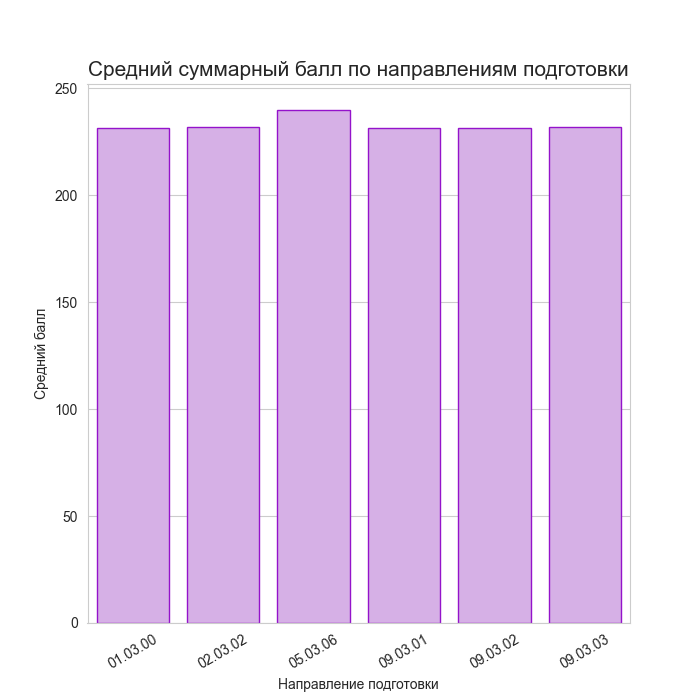
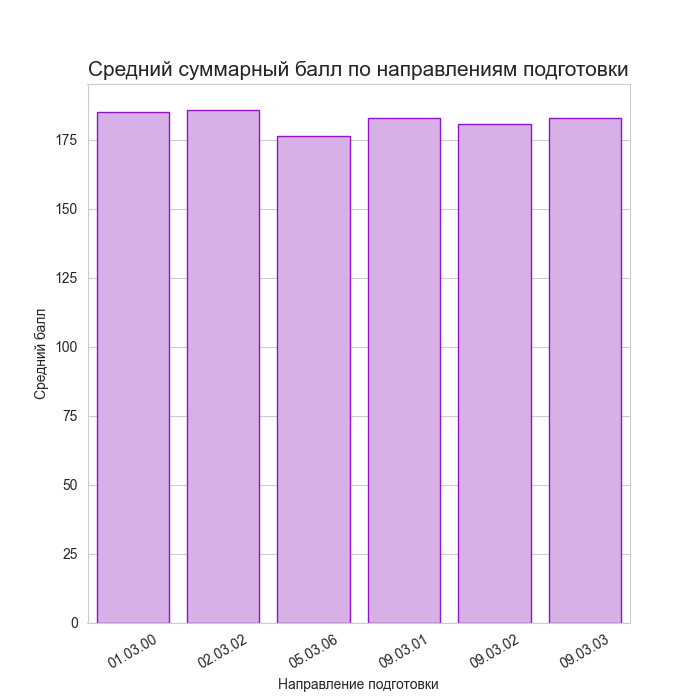
fix structure

diff --git a/static/script.js b/static/script.js
@@ -57,6 +57,11 @@ buttonCalcCount.addEventListener("click", async function () {
         body: JSON.stringify(params), 
     });
 
+    if (response.status !== 200) {
+        errorText.textContent = "Server error";
+        return;
+    }
+
     let plots_paths = await response.json();
 
     plotCountsSpread.setAttribute("src", plots_paths.counts_spread + "?" + new Date().getTime());
@@ -78,5 +83,8 @@ buttonCalcPeople.addEventListener("click", async function () {
         body: JSON.stringify(params), 
     });
 
-    console.log(await response.text());
+    if (response.status !== 200) {
+        errorText.textContent = "Server error";
+        return;
+    }
 });

diff --git a/process_data.py b/process_data.py
@@ -5,15 +5,20 @@ import os
 SCORE_SUM_COL = "Сумма баллов"
 PRIPROTY_COL = "Приоритет"
 
-OUT_PATH = "out"
+DIR_CODES_COL = "Направление подготовки"
+COUNTS_REQUIRED_COL = "Количество требуемых людей"
+COUNTS_COMMON_COL = "Общее количество людей"
+AVER_SCORE_COL = "Средний балл"
+COUNTS_COL = "Количество людей"
+COUNT_TYPE_COL = "Тип количества"
 
 
-def read_all():
+def load_data(load_dir):
     res = {}
 
     print("Loading data:")
 
-    for i in glob.glob("data/*.xlsx"):
+    for i in glob.glob(f"{load_dir}/*.xlsx"):
         dir_code = ".".join(os.path.basename(i).split(".")[:-1])
         print(f"Loading {dir_code}.xlsx")
 
@@ -29,32 +34,69 @@ def calc_ranges(tables_all):
     b_max = max([i[SCORE_SUM_COL].max() for i in tables_all.values()])
     p_min = min([i[PRIPROTY_COL].min() for i in tables_all.values()])
     p_max = max([i[PRIPROTY_COL].max() for i in tables_all.values()])
-    return b_min, b_max, p_min, p_max
+
+    return {
+        "b_min": b_min, 
+        "b_max": b_max, 
+        "p_min": p_min, 
+        "p_max": p_max
+    }
 
 
-def process_table(table, b1, b2, p1, p2):
-    part_need = table[(table[SCORE_SUM_COL] >= b1) & (table[SCORE_SUM_COL] <= b2) & (table[PRIPROTY_COL] >= p1) & (table[PRIPROTY_COL] <= p2)]
+def validate_filter_params(filter_params, ranges):
+    if filter_params["b1"] < ranges["b_min"] or filter_params["b1"] > ranges["b_max"]:
+        raise ValueError("b1 is out of range") 
+    
+    if filter_params["b2"] < ranges["b_min"] or filter_params["b2"] > ranges["b_max"]:
+        raise ValueError("b2 is out of range") 
+    
+    if filter_params["p1"] < ranges["p_min"] or filter_params["p1"] > ranges["p_max"]:
+        raise ValueError("p1 is out of range") 
+    
+    if filter_params["p2"] < ranges["p_min"] or filter_params["p2"] > ranges["p_max"]:
+        raise ValueError("p2 is out of range") 
+    
+    if filter_params["b1"] > filter_params["b2"]:
+        raise ValueError("b1 must be less than b2 or equal it")
+    
+    if filter_params["p1"] > filter_params["p2"]:
+        raise ValueError("p1 must be less than p2 or equal it")
+
+
+def filter_table(table, filter_params):
+    b1 = filter_params["b1"]
+    b2 = filter_params["b2"]
+    p1 = filter_params["p1"]
+    p2 = filter_params["p2"]
+    
+    part_need = table[(table[SCORE_SUM_COL] >= b1) & (table[SCORE_SUM_COL] <= b2) & \
+                      (table[PRIPROTY_COL] >= p1) & (table[PRIPROTY_COL] <= p2)]
+    
     return part_need
 
 
-def form_table_counts(tables_all, b1, b2, p1, p2):
-    processed_tables = [process_table(tables_all[i], b1, b2, p1, p2) for i in tables_all.keys()]
-    counts = [i[SCORE_SUM_COL].count() for i in processed_tables]
+def create_stat_table(tables_all, filter_params, ranges):
+    validate_filter_params(filter_params, ranges)
+
+    processed_tables = [filter_table(tables_all[i], filter_params) for i in tables_all.keys()]
+    counts_required = [i[SCORE_SUM_COL].count() for i in processed_tables]
+    counts_common = [tables_all[i][SCORE_SUM_COL].count() for i in tables_all.keys()]
     score_average = []
 
     for i in range(len(processed_tables)):
-        score_average.append(processed_tables[i][SCORE_SUM_COL].sum() / counts[i])
+        score_average.append(processed_tables[i][SCORE_SUM_COL].sum() / counts_required[i])
 
     frame_counts = pd.DataFrame({
-        "Направление подготовки": list(tables_all.keys()),
-        "Количество людей": counts,
-        "Средний балл": score_average,
+        DIR_CODES_COL: list(tables_all.keys()),
+        COUNTS_REQUIRED_COL: counts_required,
+        COUNTS_COMMON_COL: counts_common,
+        AVER_SCORE_COL: score_average,
     })
 
     return frame_counts
 
 
-def create_counts_to_show(tables_all, table_counts):
+def reshape_counts_to_show(tables_all, table_counts):
     dir_codes = []
     counts = []
     count_type = []
@@ -62,25 +104,32 @@ def create_counts_to_show(tables_all, table_counts):
     row_num = 0
 
     for i in tables_all.keys():
-        dir_codes.append(i)
-        dir_codes.append(i)
-        counts.append(table_counts["Количество людей"][row_num])
-        counts.append(tables_all[i][SCORE_SUM_COL].count())
-        count_type.append("По параметрам")
-        count_type.append("Общее")
+        dir_codes += [i, i]
+        count_type += ["Требуемых", "Общее"]
+        counts.append(table_counts[COUNTS_REQUIRED_COL][row_num])
+        counts.append(table_counts[COUNTS_COMMON_COL][row_num])
 
         row_num = row_num + 1
 
     return pd.DataFrame({
-        "Направление подготовки": dir_codes,
-        "Количество людей": counts,
-        "Тип количества": count_type
+        DIR_CODES_COL: dir_codes,
+        COUNTS_COL: counts,
+        COUNT_TYPE_COL: count_type
     })
 
 
-def form_tables_with_required_people(tables_all, b1, b2, p1, p2):
-    for dir_code, dir_df in tables_all.items():
-        save_path = f"{OUT_PATH}/{dir_code}_{b1}_{b2}_{p1}_{p2}.xlsx"
+def form_tables_with_required_people(tables_all, filter_params, ranges, save_dir):
+    validate_filter_params(filter_params, ranges)
 
-        df_filtered = process_table(dir_df, b1, b2, p1, p2)
+    b1 = filter_params["b1"]
+    b2 = filter_params["b2"]
+    p1 = filter_params["p1"]
+    p2 = filter_params["p2"]
+
+    name_suffix = f"{b1}_{b2}_{p1}_{p2}"
+
+    for dir_code, dir_df in tables_all.items():
+        save_path = f"{save_dir}/{dir_code}_{name_suffix}.xlsx"
+
+        df_filtered = filter_table(dir_df, filter_params)
         df_filtered.to_excel(save_path)

diff --git a/main.py b/main.py
@@ -1,84 +1,67 @@
-from flask import Flask, request, render_template
-from process_data import read_all, form_table_counts, form_tables_with_required_people, OUT_PATH, calc_ranges, create_counts_to_show
-import seaborn as sns
-import matplotlib
-import matplotlib.pyplot as plt
+from flask import Flask, request, render_template, abort
+from process_data import load_data, create_stat_table, form_tables_with_required_people, calc_ranges, reshape_counts_to_show, DIR_CODES_COL, COUNTS_REQUIRED_COL
+from plots import create_counts_plot, create_scores_plot
 from json import dumps
 from gevent import sleep
 from gevent.pywsgi import WSGIServer
 import os
 
+DATA_PATH = "data"
+OUT_PATH = "out"
 HOST = "127.0.0.1"
 PORT = 3000
-
-matplotlib.use('Agg')
 
 app = Flask(__name__, static_folder="static", template_folder="static")
 ui_server = WSGIServer((HOST, PORT), app, log=open(os.devnull, "w"))
 
-frames = read_all()
-b_min, b_max, p_min, p_max = calc_ranges(frames)
+source_data = load_data(DATA_PATH)
+ranges = calc_ranges(source_data)
 
 
 @app.route('/', methods=['GET'])
 def root():
-    return render_template("index.html", b_min=b_min, b_max=b_max, p_min=p_min, p_max=p_max)
+    return render_template(
+        "index.html", 
+        b_min=ranges["b_min"], 
+        b_max=ranges["b_max"], 
+        p_min=ranges["p_min"], 
+        p_max=ranges["p_max"]
+    )
 
 
 @app.route('/table_counts', methods=['POST'])
 def table_counts():
-    params = request.get_json()
-    frame_counts = form_table_counts(frames, params["b1"], params["b2"], params["p1"], params["p2"])
+    try:
+        params = request.get_json()
+        stat_table = create_stat_table(source_data, params, ranges)
 
-    frame_counts[["Направление подготовки", "Количество людей"]].to_excel(f"{OUT_PATH}/common.xlsx")
+        stat_table[[DIR_CODES_COL, COUNTS_REQUIRED_COL]].to_excel(f"{OUT_PATH}/common.xlsx")
+        
+        counts_save_path = "static/counts_spread.png"
+        counts_to_show = reshape_counts_to_show(source_data, stat_table)
+
+        create_counts_plot(counts_to_show, counts_save_path)
+
+        score_save_path = "static/average_score_spread.png"
+
+        create_scores_plot(stat_table, score_save_path)
+
+        return dumps({"counts_spread": counts_save_path, "average_score_spread": score_save_path})
     
-    counts_save_path = "static/counts_spread.png"
-    counts_to_show = create_counts_to_show(frames, frame_counts)
-
-    sns.set_style("whitegrid")
-
-    plot = sns.catplot(
-        data=counts_to_show,
-        x="Направление подготовки",
-        y="Количество людей",
-        hue="Тип количества",
-        kind="bar",
-        palette=sns.color_palette(["#9413cb", "#13CB85"])
-    )
-
-    plot.set(title="Распределение количества людей по направлениям подготовки")
-    plot.set_xticklabels(rotation=30)
-
-    plot.savefig(counts_save_path)
-    plot.set
-
-    score_save_path = "static/average_score_spread.png"
-
-    fig, ax = plt.subplots(figsize=(7, 7))
-    ax.set_title("Средний суммарный балл по направлениям подготовки", fontsize=15)
-
-    sns.barplot(
-        data=frame_counts,
-        x="Направление подготовки",
-        y="Средний балл",
-        ax=ax,
-        color="#D9A7EF",
-        edgecolor="#9413cb"
-    )
-
-    plt.xticks(rotation=30)
-
-    fig.savefig(score_save_path)
-
-    return dumps({"counts_spread": counts_save_path, "average_score_spread": score_save_path})
+    except ValueError:
+        return abort(400)
 
 
 @app.route('/people_required_for_every_table', methods=['POST'])
 def tables_with_people():
-    params = request.get_json()
-    form_tables_with_required_people(frames, params["b1"], params["b2"], params["p1"], params["p2"])
+    try:
+        params = request.get_json()
+        form_tables_with_required_people(source_data, params, ranges, OUT_PATH)
 
-    return "ok"   
+        return "ok"   
+
+    except ValueError:
+        return abort(400)
 
 if __name__ == "__main__":
     print(f"UI is running on http://{HOST}:{PORT}")

diff --git a/plots.py b/plots.py
@@ -1,0 +1,44 @@
+import seaborn as sns
+import matplotlib
+import matplotlib.pyplot as plt
+from process_data import DIR_CODES_COL, COUNTS_COL, COUNT_TYPE_COL, AVER_SCORE_COL
+
+matplotlib.use('Agg')
+
+
+def create_counts_plot(counts_table, save_path):
+    sns.set_style("whitegrid")
+
+    plot = sns.catplot(
+        data=counts_table,
+        x=DIR_CODES_COL,
+        y=COUNTS_COL,
+        hue=COUNT_TYPE_COL,
+        kind="bar",
+        palette=sns.color_palette(["#9413cb", "#13CB85"])
+    )
+
+    plot.set(title="Распределение количества людей по направлениям подготовки")
+    plot.set_xticklabels(rotation=30)
+
+    plot.savefig(save_path)
+
+
+def create_scores_plot(scores_table, save_path):
+    sns.set_style("whitegrid")
+
+    fig, ax = plt.subplots(figsize=(7, 7))
+    ax.set_title("Средний суммарный балл по направлениям подготовки", fontsize=15)
+
+    sns.barplot(
+        data=scores_table,
+        x=DIR_CODES_COL,
+        y=AVER_SCORE_COL,
+        ax=ax,
+        color="#D9A7EF",
+        edgecolor="#9413cb"
+    )
+
+    plt.xticks(rotation=30)
+
+    fig.savefig(save_path)
